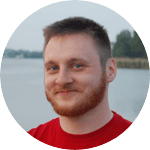
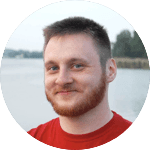
Add Artur to the page! Bit more exposure in Damian picture

diff --git a/themes/happyteam/layouts/index.html b/themes/happyteam/layouts/index.html
@@ -188,9 +188,16 @@
 									</div>
 									<span class="name">Rafał Legiędź</span>
 									<p>A firm believer that being pragmatic in software development can make a big difference. Jack of all trades and master of none. Will code at 4 AM because he can.</p>
+								</li>								
+								<li>
+									<div class="img-holder">
+										<img src="images/amarszalek.png" alt="Artur Marszałek">
+									</div>
+									<span class="name">Artur Marszałek</span>
+									<p>Young Java, JavaScript, C# dev. He still believes that clean code and unit tests make a difference. His motivation to work is a desire to continuously develop himself. He likes challenges and solving difficult problems. After work he tries to keep in shape.</p>
 								</li>
 								<li>
-									<div class="img-holder third">
+									<div class="img-holder forth">
 										<img src="images/warna.png" alt="Damian Tarnacki">
 									</div>
 									<span class="name">Damian Tarnacki</span>
